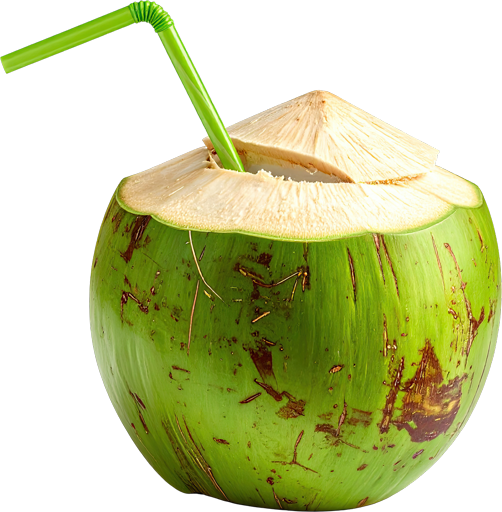
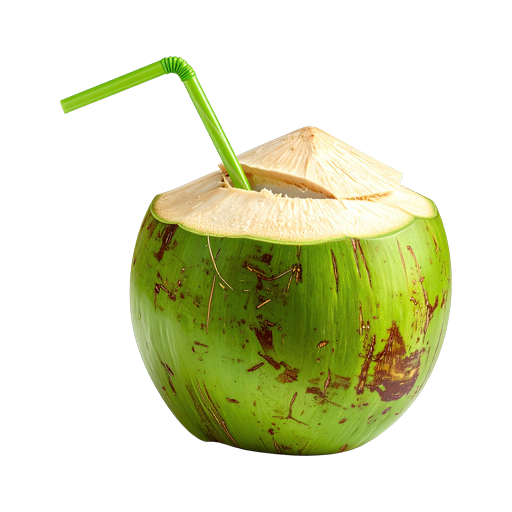
Refine K7 card images

diff --git a/scripts/extract-pptx-images.js b/scripts/extract-pptx-images.js
@@ -24,13 +24,18 @@ const sourceOverrides = new Map([
   ["beca", path.join(customAssetDir, "beca.jpg")],
   ["ini", path.join(customAssetDir, "ini.png")],
   ["itu", path.join(customAssetDir, "itu.png")],
+  ["lelaki", path.join(customAssetDir, "lelaki.png")],
   ["lima", path.join(customAssetDir, "lima.png")],
 ]);
 const framingProfiles = new Map([
   ["baju", { size: 400, offsetY: -12 }],
   ["beca", { size: 480 }],
   ["cili", { size: 400, offsetY: -12 }],
+  ["kelapa", { size: 400 }],
+  ["kereta", { size: 400 }],
+  ["kerusi", { size: 400 }],
   ["kuda", { size: 440 }],
+  ["lelaki", { size: 440 }],
   ["lima", { size: 400, offsetY: -12 }],
   ["satu", { size: 400, offsetY: -12 }],
   ["tiga", { size: 400, offsetY: -12 }],
